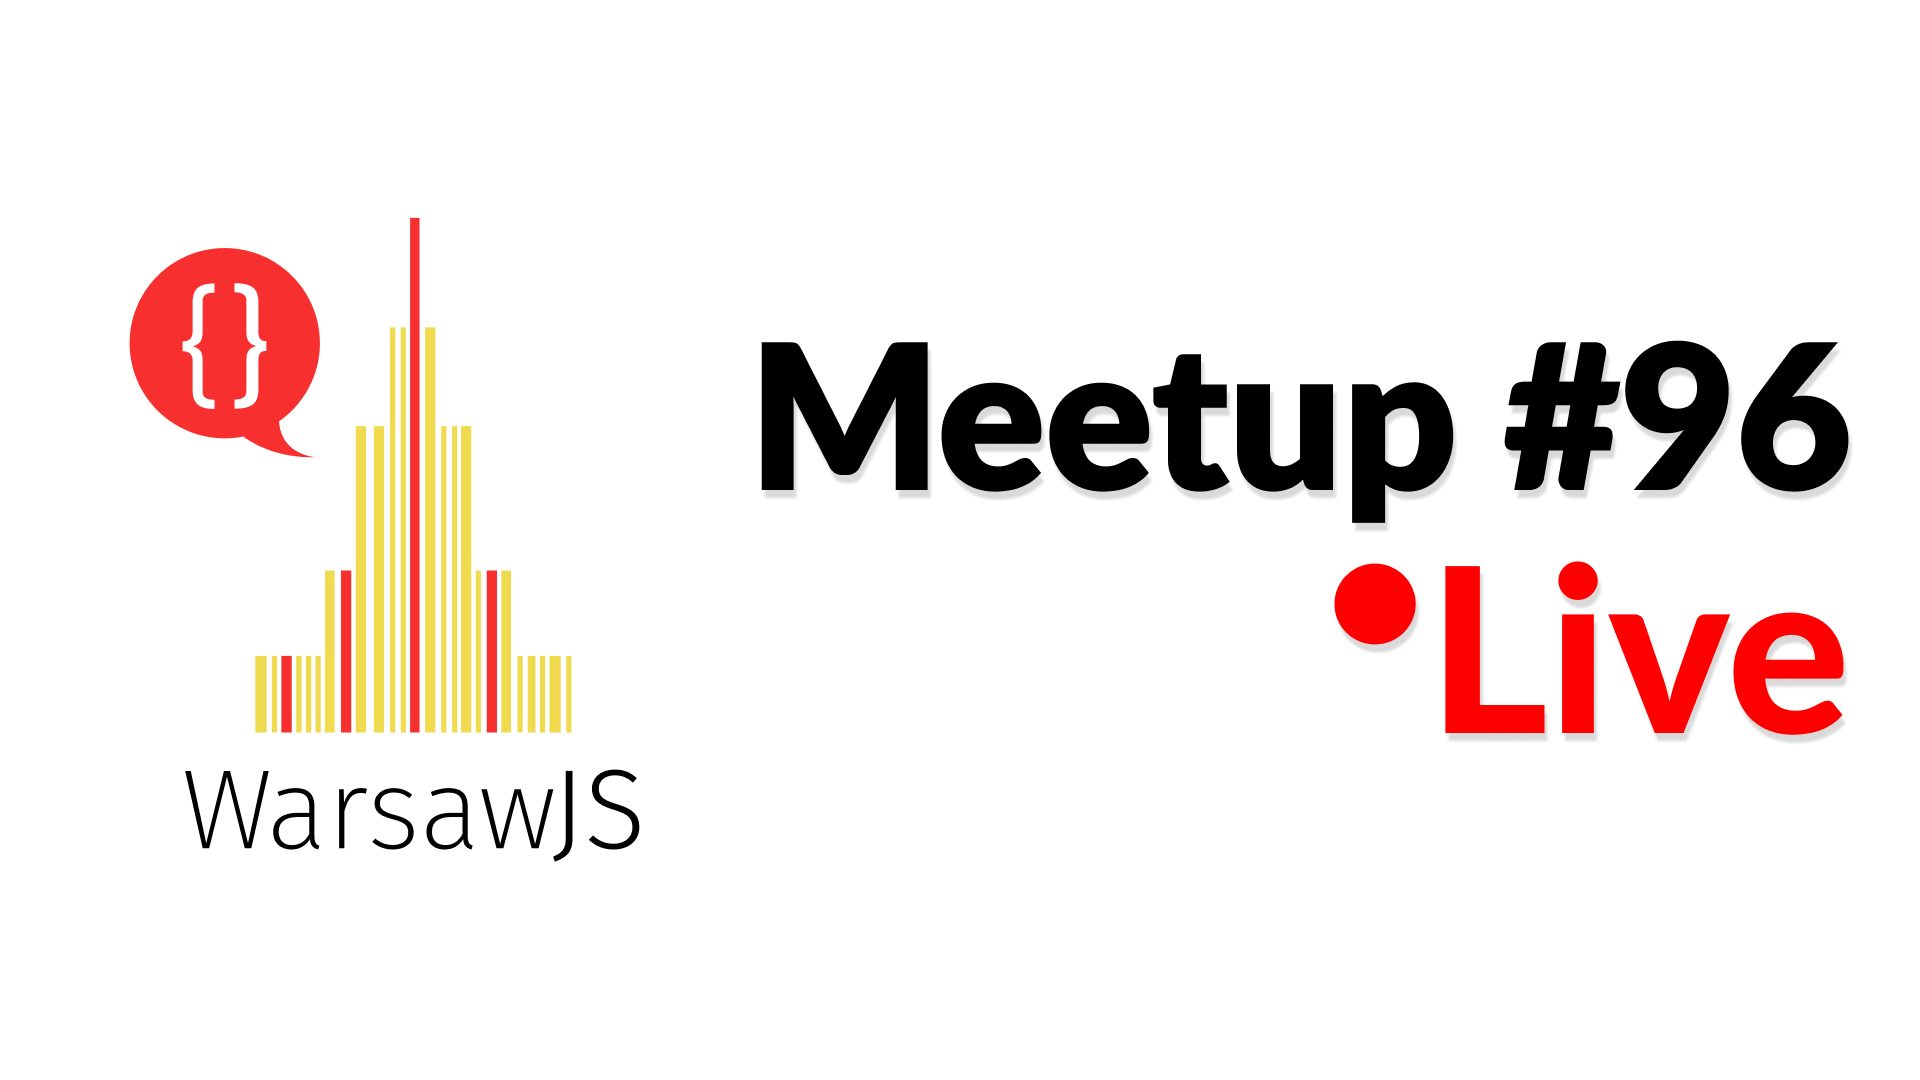
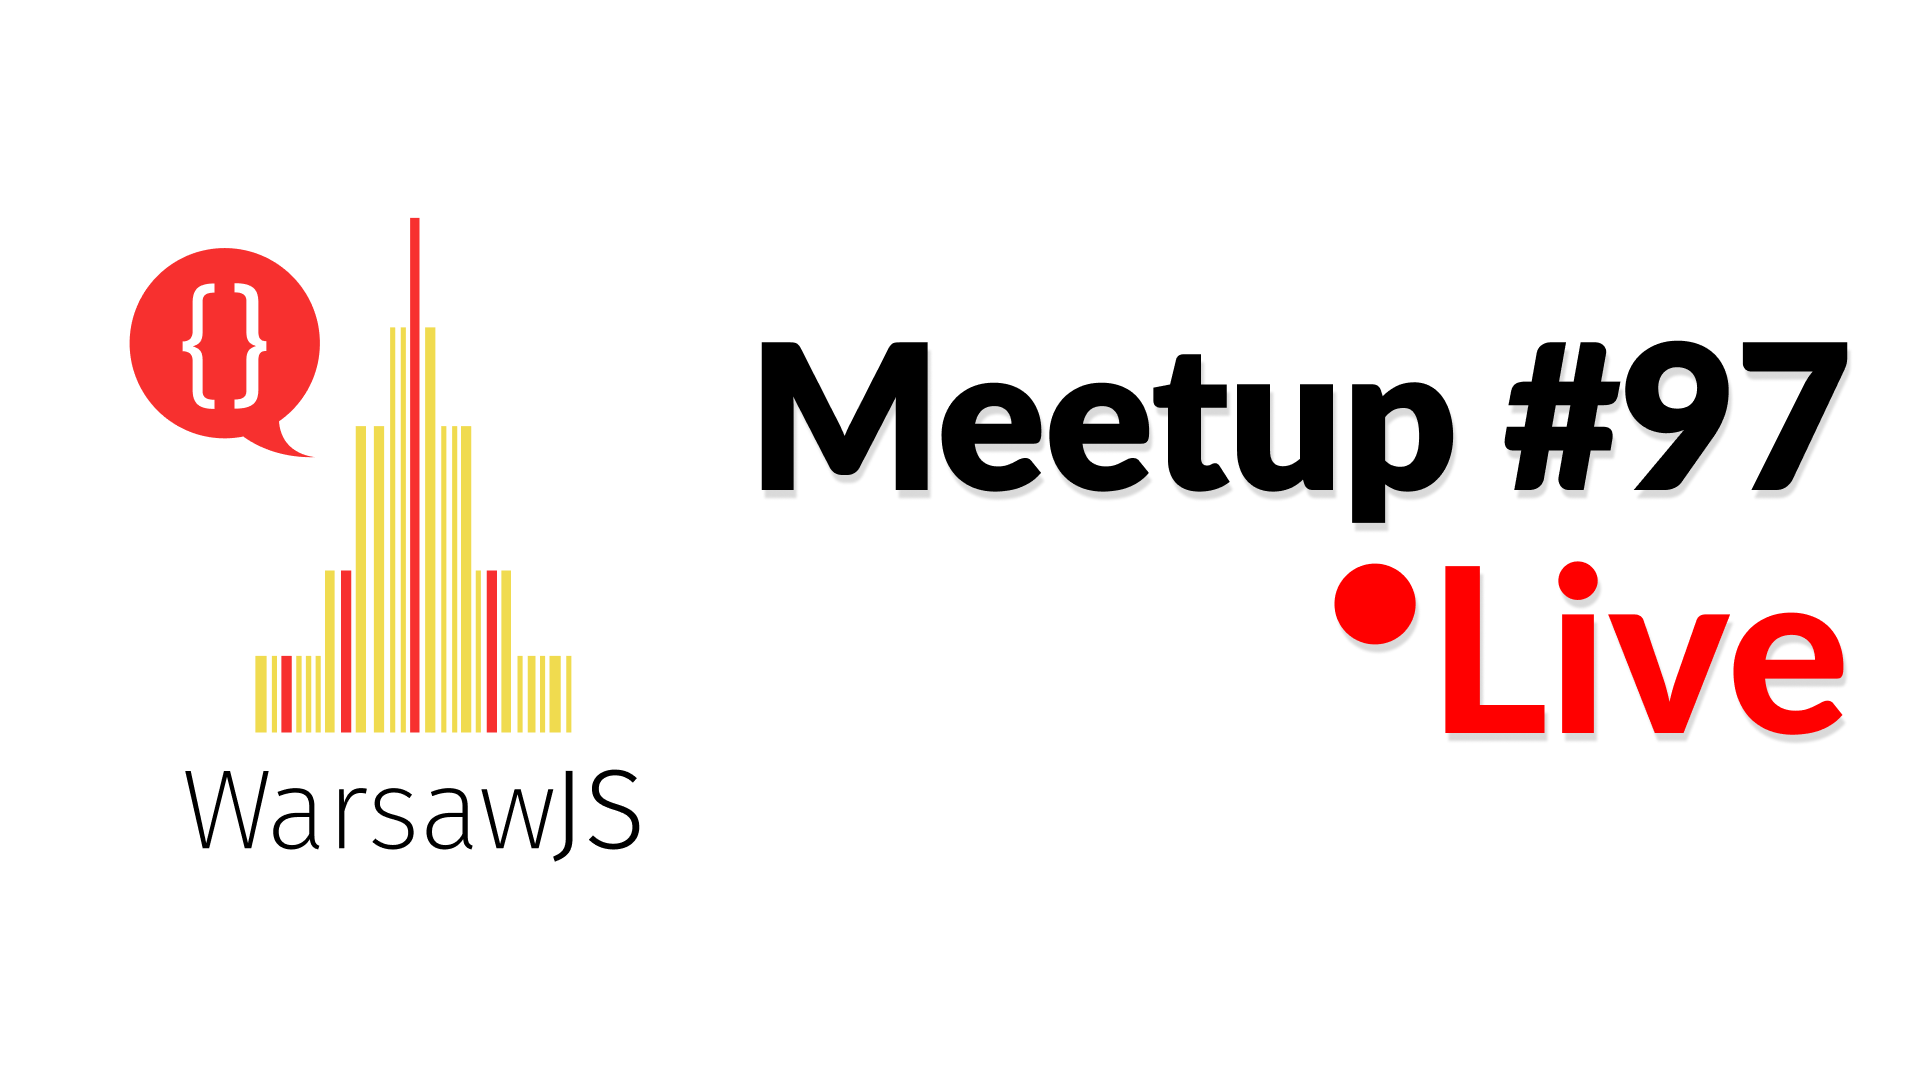
Update meetup 97

Changed region(s): [[0.9062, 0.3056, 0.9688, 0.4583]]

diff --git a/index.html b/index.html
@@ -169,14 +169,20 @@
                 <p>
                     Luiza Haas
                 </p>
-
-                <p>
-                    <a href="https://github.com/luizabuta">
-                        <i class="icon icon-twitter"></i>
-                        <span>Luiza Haas</span>
-                    </a>
-                </p>
             </li>
+
+            <li>
+                            <img
+                                src="https://s3.eu-central-1.amazonaws.com/www.warsawjs.com/static/images/people/pawel-rechnio.jpg
+            "
+                                class="avatar"
+                                style="border-radius: 50%; width: 170px; margin-bottom: 25px;"
+                                alt=""/>
+
+                            <p>
+                                Paweł Rechnio
+                            </p>
+                        </li>
         </ul>
     </section>
 
@@ -186,6 +192,24 @@
         </h2>
 
         <ul class="list-unstyled items">
+            <li>
+                <img
+                    src="https://s3.eu-central-1.amazonaws.com/www.warsawjs.com/static/images/people/piotr-slawinski.jpg"
+                    class="avatar"
+                    style="border-radius: 50%; width: 170px; margin-bottom: 25px;"
+                    alt=""/>
+
+                <p>
+                    Piotr Sławiński
+                </p>
+
+                <p>
+                    <a href="https://twitter.com/piotr_slawinski">
+                        <i class="icon icon-twitter"></i>
+                        <span>Piotr Sławiński</span>
+                    </a>
+                </p>
+            </li>
             <li>
                 <img
                     src="https://s3.eu-central-1.amazonaws.com/www.warsawjs.com/static/images/people/jacek-glowacz.jpg"
@@ -280,7 +304,7 @@
         </h3>
     </section>
 
-    <section class="slide center slide-card-list" style="padding-top: 40px;">
+<!--     <section class="slide center slide-card-list" style="padding-top: 40px;">
         <h2 style="font-size: 60px; margin-bottom: 20px;">
             WarsawJS Meetup <em>Agenda</em>
         </h2>
@@ -312,7 +336,7 @@
                 </p>
             </li>
         </ul>
-    </section>
+    </section> -->
 
     <section class="slide">
         <h1 class="shout">6,052 🙌</h1>
@@ -449,7 +473,7 @@
             />
         </a>   
     </section>
-    <section class="slide center" style="padding-top: 40px;">
+<!--     <section class="slide center" style="padding-top: 40px;">
         <h2 class="shout grow" style="font-size: 120px;">
             🔥 After Party! 🔥
         </h2>
@@ -463,9 +487,9 @@
                 alt="Syreni Spiew"
             />
         </a>   
-    </section>
+    </section> -->
 
-    <section class="slide center slide-card-list" style="padding-top: 40px;">
+<!--     <section class="slide center slide-card-list" style="padding-top: 40px;">
         <h2 style="font-size: 60px; margin-bottom: 20px;">
             Syreni <em>Śpiew</em>
         </h2>
@@ -497,9 +521,9 @@
                 alt="Blue"
             />
         </a>   
-    </section>
+    </section> -->
 
-    <section class="slide center slide-card-list" style="padding-top: 40px;">
+<!--     <section class="slide center slide-card-list" style="padding-top: 40px;">
         <h2 style="font-size: 60px; margin-bottom: 20px;">
             Backup <em>Plan</em>
         </h2>
@@ -521,7 +545,7 @@
                 </p>
             </li>
         </ul>
-    </section>
+    </section> -->
 
 <!--     <section class="slide">
         <h1>Tickets for WarsawJS Meetup #95 are available now!</h1>
